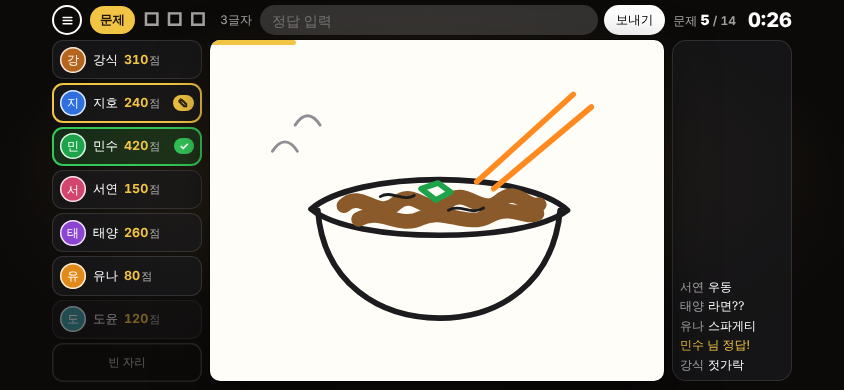
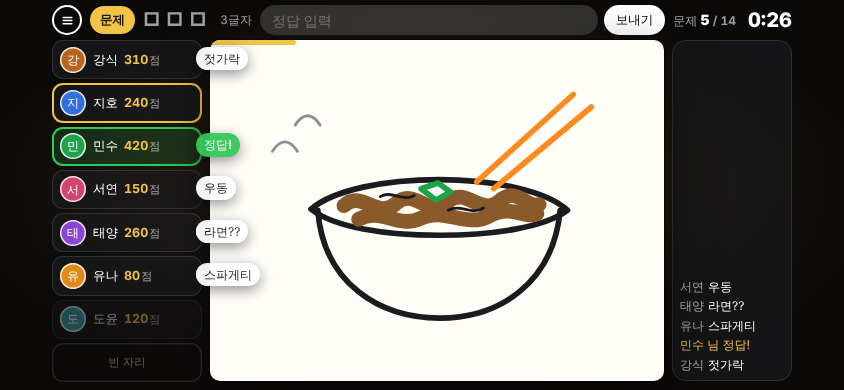
갱식마인드: 시안 수정 중간 저장
Claude-Session: https://claude.ai/code/session_01HLnaqZjB45q4jBceVSssci

diff --git a/design/draw/index.html b/design/draw/index.html
@@ -61,7 +61,7 @@ svg{display:block}
   padding:0 calc(var(--pad) + var(--sr)) var(--pad) calc(var(--pad) + var(--sl))}
 .dr-seats{display:flex;flex-direction:column;gap:10px;min-height:0;height:calc(var(--strip) + var(--ch) + var(--under) + 20px)}
 .dr-seats.l{grid-column:1}.dr-seats.r{grid-column:5}
-.dr-seat{flex:1;min-height:0;border-radius:18px;background:var(--panel);box-shadow:inset 0 0 0 1px var(--hair);padding:10px;display:flex;flex-direction:column;gap:6px;position:relative;overflow:hidden}
+.dr-seat{flex:1;min-height:0;border-radius:18px;background:var(--panel);box-shadow:inset 0 0 0 1px var(--hair);padding:10px;display:flex;flex-direction:column;gap:6px;position:relative;overflow:visible}
 .dr-seat.empty{background:none;box-shadow:inset 0 0 0 1.5px rgba(255,255,255,.1);align-items:center;justify-content:center;color:var(--ink3);font-size:13px}
 .dr-seat.turn{box-shadow:inset 0 0 0 2px var(--accent)}
 .dr-seat.hit{box-shadow:inset 0 0 0 2px var(--green);background:rgba(52,199,89,.16)}
@@ -74,9 +74,19 @@ svg{display:block}
 .dr-tag{align-self:flex-start;font-size:11px;font-weight:700;padding:2px 7px;border-radius:9px;background:var(--accent);color:var(--on-accent)}
 .dr-tag.host{background:var(--fill2);color:var(--ink)}
 .dr-tag.ok{background:var(--green);color:#fff}
-.dr-say{font-size:13px;line-height:1.3;padding:5px 9px;border-radius:11px 11px 11px 3px;background:#fff;color:#111;align-self:flex-start;max-width:100%;
-  display:-webkit-box;-webkit-line-clamp:2;-webkit-box-orient:vertical;overflow:hidden;overflow-wrap:anywhere}
+.dr-say{position:absolute;top:14px;z-index:4;width:max-content;max-width:170px;font-size:13.5px;line-height:1.3;padding:6px 10px;border-radius:13px;background:#fff;color:#111;opacity:.95;pointer-events:none;
+  box-shadow:0 4px 14px rgba(0,0,0,.45);display:-webkit-box;-webkit-line-clamp:2;-webkit-box-orient:vertical;overflow-wrap:anywhere;animation:dr-pop .28s cubic-bezier(.3,1.6,.5,1) both}
+.dr-say::before{content:'';position:absolute;top:9px;border:7px solid transparent}
+.dr-seats.l .dr-say{left:calc(100% - 6px);transform-origin:0 50%}
+.dr-seats.l .dr-say::before{left:-12px;border-right-color:#fff}
+.dr-seats.r .dr-say{right:calc(100% - 6px);transform-origin:100% 50%}
+.dr-seats.r .dr-say::before{right:-12px;border-left-color:#fff}
 .dr-say.ok{background:var(--green);color:#fff;font-weight:700}
+.dr-seats.l .dr-say.ok::before{border-right-color:var(--green)}.dr-seats.r .dr-say.ok::before{border-left-color:var(--green)}
+.mine .dr-say{max-width:104px;opacity:.88}
+@keyframes dr-pop{from{transform:scale(.4);opacity:0}}
+@media (prefers-reduced-motion:reduce){.dr-say{animation:none}}
+.mk-still .dr-say{animation:none}
 .dr-plus{position:absolute;right:10px;bottom:8px;font-weight:800;color:var(--green);font-size:20px}
 
 .dr-pal{grid-column:2;align-self:start;margin-top:calc(var(--strip) + 10px);display:grid;grid-template-columns:1fr 1fr;gap:8px;padding:8px;border-radius:18px;background:var(--panel);box-shadow:inset 0 0 0 1px var(--hair)}
@@ -92,6 +102,16 @@ svg{display:block}
 .dr-size{width:44px;height:44px;border-radius:50%;display:flex;align-items:center;justify-content:center;background:var(--fill)}
 .dr-size i{display:block;border-radius:50%;background:#fff}
 .dr-size.on{background:#fff}.dr-size.on i{background:#000}
+.dr-size svg{width:20px;height:20px}.dr-size.on svg{color:#000}
+.dr-szpop{flex:1;min-width:0;height:48px;display:flex;align-items:center;gap:10px;padding:0 10px;border-radius:24px;background:rgba(40,40,42,.95);box-shadow:inset 0 0 0 1px var(--hair)}
+.dr-szprev{width:40px;height:40px;border-radius:50%;background:var(--paper);display:flex;align-items:center;justify-content:center;flex:none}
+.dr-szprev i{display:block;border-radius:50%}
+.dr-sznum{font-size:17px;min-width:26px;text-align:center}
+.dr-szstep{width:36px;height:36px;border-radius:50%;background:var(--fill2);font-size:20px;font-weight:700;flex:none}
+.dr-sztrack{flex:1;height:6px;border-radius:3px;background:var(--fill2);position:relative;min-width:60px}
+.dr-sztrack i{position:absolute;left:0;top:0;bottom:0;border-radius:3px;background:var(--accent)}
+.dr-sztrack u{position:absolute;top:50%;width:28px;height:28px;margin:-14px 0 0 -14px;border-radius:50%;background:#fff;box-shadow:0 2px 6px rgba(0,0,0,.5)}
+.dr-szpop.dr-ph{display:none}
 
 .dr-board{grid-column:3;display:flex;flex-direction:column;gap:10px;width:var(--cw);min-width:0}
 .dr-strip{height:var(--strip);flex:none;display:flex;align-items:center;gap:12px;padding:0 8px 0 6px;border-radius:26px;background:var(--panel);box-shadow:inset 0 0 0 1px var(--hair)}
@@ -197,18 +217,31 @@ svg{display:block}
   .dr-tag{align-self:center;font-size:0;padding:1px 5px;flex:none}
   .dr-tag::before{content:'✎';font-size:11px}
   .dr-tag.ok::before{content:'✓'}
-  .dr-tag.host{display:none}
+  .dr-tag{display:none!important}
   .dr-seat:has(.dr-plus) .dr-tag{display:none}
   .dr-seat:has(.dr-plus) .dr-sc{font-size:0}
   .dr-plus{font-size:12.5px}
-  .dr-say{display:none}
+  .dr-say{top:50%;margin-top:-13px;max-width:124px;font-size:12px;padding:4px 8px;-webkit-line-clamp:1;white-space:nowrap;overflow:hidden;text-overflow:ellipsis;display:block}
+  .dr-say::before{top:6px;border-width:6px}
+  .dr-seats.r .dr-say{right:auto;left:calc(100% - 6px);transform-origin:0 50%}
+  .dr-seats.r .dr-say::before{right:auto;left:-11px;border-left-color:transparent;border-right-color:#fff}
+  .dr-seats.r .dr-say.ok::before{border-left-color:transparent;border-right-color:var(--green)}
+  .mine .dr-say{left:auto!important;right:5px!important;max-width:64px;opacity:.95}
+  .mine .dr-say::before{display:none}
   .dr-plus{position:static}
   .dr-board{grid-column:3;grid-row:1/3}
   .dr-pal{grid-column:2;grid-row:1/3;margin-top:0;gap:6px;padding:6px;border-radius:14px;align-self:center}
-  .dr-tools{grid-column:4;grid-row:1/3;margin-top:0;gap:4px;padding:4px;border-radius:14px;align-self:center}
-  .dr-tool{height:34px;width:38px;border-radius:10px;font-size:0;gap:0}
+  .dr-tools{grid-column:4;grid-row:1/3;margin-top:0;gap:4px 4px;padding:4px;border-radius:14px;align-self:center}
+  .mine{--pw:132px;--toolw:88px;
+    --ch:min(calc(100dvh - var(--bar) - var(--pad)),calc((100vw - var(--sl) - var(--sr) - var(--pad)*2 - var(--pw) - var(--palw) - var(--toolw) - var(--gap)*3)*.75));--cw:calc(var(--ch)*4/3)}
+  .dr-pc,.dr-tools hr{display:none}
+  .dr-tools{display:grid;grid-template-columns:38px 38px;grid-template-rows:repeat(5,36px);grid-auto-flow:column}
+  .dr-szpop.dr-ph{display:grid;grid-template-columns:36px 1fr 36px;gap:8px 6px;align-items:center;position:fixed;z-index:6;left:calc(var(--sl) + var(--pad));bottom:var(--pad);width:206px;height:auto;padding:10px;border-radius:16px;box-shadow:0 10px 30px rgba(0,0,0,.6),inset 0 0 0 1px var(--hair)}
+  .dr-szpop.dr-ph .dr-szprev{grid-column:1/3;justify-self:start}
+  .dr-szpop.dr-ph .dr-sznum{grid-column:3;grid-row:1}
+  .dr-tool{height:36px;width:38px;border-radius:10px;font-size:0;gap:0}
   .dr-tool svg{width:20px;height:20px}
-  .dr-tools .dr-size{width:38px;height:30px;border-radius:10px}
+  .dr-tools .dr-size{width:38px;height:36px;border-radius:10px}
   .dr-canvas{border-radius:10px}
   /* 맞히는 사람: 색·도구 자리가 없고, 오른쪽에 채팅 기록 */
   .guess .dr-stage{grid-template-columns:var(--pw) var(--cw) minmax(0,1fr)}
@@ -260,7 +293,8 @@ const GAME_NAME = '갱식마인드';
 document.title = GAME_NAME + ' — 정적 시안';
 const P = new URLSearchParams(location.search);
 const S = P.get('s') || 'draw';
-const SCREENS = [['lobby','a1 로비'],['room','a2 방 대기'],['pick','b1 단어 고르기'],['draw','b2 내가 그림'],['guess','c 맞히기'],['kb','c2 키보드(폰)'],['reveal','d 정답 공개'],['final','e 최종 순위']];
+const SCREENS = [['lobby','a1 로비'],['room','a2 방 대기'],['pick','b1 단어 고르기'],['draw','b2 내가 그림'],['size','b3 굵기 조정'],['guess','c 맞히기'],['kb','c2 키보드(폰)'],['reveal','d 정답 공개'],['final','e 최종 순위']];
+if (P.get('shot') === '1') document.documentElement.classList.add('mk-still');   // 스크린샷용: 움직임 끔
 if (P.get('shot') !== '1') document.getElementById('nav').innerHTML = SCREENS.map(([k, n]) => `<a href="?s=${k}" class="${k === S ? 'on' : ''}">${n}</a>`).join('');
 
 // 색 12개 (기획서 6-2와 같은 값·순서)
@@ -274,6 +308,8 @@ const I = {
   snd: '<svg viewBox="0 0 24 24" fill="none" stroke="currentColor" stroke-width="2.2" stroke-linecap="round" stroke-linejoin="round"><path d="M4 10v4h3l5 4V6L7 10H4z"/><path d="M16 9a4 4 0 010 6"/></svg>',
   pen: '<svg viewBox="0 0 24 24" fill="none" stroke="currentColor" stroke-width="2" stroke-linecap="round" stroke-linejoin="round"><path d="M4 20l1-5L16 4l4 4L9 19l-5 1z"/><path d="M14 6l4 4"/></svg>',
   era: '<svg viewBox="0 0 24 24" fill="none" stroke="currentColor" stroke-width="2" stroke-linecap="round" stroke-linejoin="round"><path d="M8 19l-4-4a2 2 0 010-3l8-8a2 2 0 013 0l5 5a2 2 0 010 3l-7 7H8z"/><path d="M9 9l7 7M12 19h8"/></svg>',
+  eraS: '<svg viewBox="0 0 24 24" fill="none" stroke="currentColor" stroke-width="2" stroke-linecap="round" stroke-linejoin="round"><path d="M3 14c3-6 5 4 8-1s4-7 7-2 2 5 3 3" stroke-dasharray="0"/><path d="M6 20L18 5" stroke-width="2.6"/></svg>',
+  adj: '<svg viewBox="0 0 24 24" fill="none" stroke="currentColor" stroke-width="2.2" stroke-linecap="round"><path d="M4 8h16M4 16h16"/><circle cx="9" cy="8" r="2.6" fill="currentColor"/><circle cx="15" cy="16" r="2.6" fill="currentColor"/></svg>',
   undo: '<svg viewBox="0 0 24 24" fill="none" stroke="currentColor" stroke-width="2.2" stroke-linecap="round" stroke-linejoin="round"><path d="M9 13L4 8l5-5"/><path d="M4 8h10a6 6 0 010 12h-4"/></svg>',
   redo: '<svg viewBox="0 0 24 24" fill="none" stroke="currentColor" stroke-width="2.2" stroke-linecap="round" stroke-linejoin="round"><path d="M15 13l5-5-5-5"/><path d="M20 8H10a6 6 0 000 12h4"/></svg>',
   trash: '<svg viewBox="0 0 24 24" fill="none" stroke="currentColor" stroke-width="2" stroke-linecap="round" stroke-linejoin="round"><path d="M4 7h16M9 7V4h6v3M6 7l1 13h10l1-13M10 11v6M14 11v6"/></svg>',
@@ -300,11 +336,17 @@ function seat(p, i, o) {
     <div class="dr-who"><span class="dr-av" style="background:${p.c}">${p.n[0]}</span><div><div class="dr-nm">${p.n}</div><div class="dr-sc"><b>${p.s + (gain || 0)}</b>점</div></div></div>
     ${o.turn === i ? '<span class="dr-tag">그리는 중</span>' : hit && !gain ? '<span class="dr-tag ok">맞힘</span>' : p.host ? '<span class="dr-tag host">방장</span>' : ''}
     ${p.off ? '<span class="dr-sc">연결 끊김</span>' : ''}
-    ${say && !hit ? `<div class="dr-say">${say}</div>` : ''}
+    ${say && !hit ? `<div class="dr-say">${say}</div>` : hit && !gain ? '<div class="dr-say ok">정답!</div>' : ''}
     ${gain ? `<span class="dr-plus">+${gain}</span>` : ''}
   </div>`;
 }
 function game(o) {
+  // 굵기 빠른 버튼 3개 + 굵기 조정 버튼
+  const sizes = (cls) => [5, 11, 22].map((d, i) => `<button class="dr-size ${cls} ${i === 1 && !o.pop ? 'on' : ''}"><i style="width:${d}px;height:${d}px"></i></button>`).join('')
+    + `<button class="dr-size dr-adj ${cls} ${o.pop ? 'on' : ''}" aria-label="굵기 조정">${I.adj}</button>`;
+  // 굵기 조정 팝업(열린 상태): 미리보기 동그라미 + 숫자 + 막대 + 1씩 줄이기/늘리기
+  const pop = (cls) => `<div class="dr-szpop ${cls}"><span class="dr-szprev"><i style="width:14px;height:14px;background:${COLORS[2]}"></i></span><b class="dr-sznum">14</b>
+    <button class="dr-szstep">−</button><span class="dr-sztrack"><i style="width:32%"></i><u style="left:32%"></u></span><button class="dr-szstep">+</button></div>`;
   const me = o.me;                       // 내가 그리는 사람인가
   const wordHtml = me || o.rev ? `<span class="dr-word">짜장면</span>` : `<span class="dr-word blank">□□□</span><span class="dr-len">3글자</span>`;
   const q = `<span class="dr-q">문제</span>${o.pick ? `<span class="dr-len">${me ? '단어를 골라 주세요' : '지호 님이 고르는 중'}</span>` : wordHtml}`;
@@ -335,20 +377,22 @@ function game(o) {
          ${o.rev ? `<div class="dr-rev"><small>정답 · 5명 중 3명이 맞혔어요</small><b>짜장면</b><span>민수 <em>+112</em> · 태양 <em>+51</em> · 강식 <em>+46</em> · 그린 사람 지호 <em>+60</em></span><small>3초 뒤 다음 문제 · 다음 차례 민수</small></div>` : ''}
        </div>
        <div class="dr-under">${tools ? `
-          <div class="dr-sizes" role="radiogroup" aria-label="굵기">
-            <button class="dr-size"><i style="width:5px;height:5px"></i></button><button class="dr-size on"><i style="width:11px;height:11px"></i></button><button class="dr-size"><i style="width:24px;height:24px"></i></button></div>
-          <span class="dr-hint">글자·숫자는 쓰지 않기 · 모두 맞히면 바로 끝나요</span>
+          <div class="dr-sizes" role="radiogroup" aria-label="굵기">${sizes('')}</div>
+          ${o.pop ? pop('') : ''}
+          ${o.pop ? '' : '<span class="dr-hint">글자·숫자는 쓰지 않기 · 모두 맞히면 바로 끝나요</span>'}
           <button class="dr-btn danger">포기</button>`
         : o.rev || o.pick ? `<span class="dr-hint">${o.pick ? (me ? '' : '곧 그림이 시작됩니다') : ''}</span>`
         : `<input class="dr-input" placeholder="정답을 입력하세요 (Enter)"><button class="dr-btn primary">보내기</button>`}</div>
      </div>
      ${tools ? `<div class="dr-tools">
-        <button class="dr-tool on">${I.pen}펜</button><button class="dr-tool">${I.era}지우개</button><hr>
-        ${[5, 11, 22].map((d, i) => `<button class="dr-size dr-ph ${i === 1 ? 'on' : ''}"><i style="width:${d}px;height:${d}px"></i></button>`).join('')}<hr class="dr-ph">
-        <button class="dr-tool">${I.undo}되돌리기</button><button class="dr-tool dim">${I.redo}다시 하기</button><hr><button class="dr-tool">${I.trash}전체 지우기</button></div>` : ''}
+        <button class="dr-tool on">${I.pen}펜</button><button class="dr-tool">${I.era}정밀 지우개</button><button class="dr-tool">${I.eraS}획 지우개</button><hr>
+        <button class="dr-tool">${I.undo}되돌리기</button><button class="dr-tool dim">${I.redo}다시 하기</button><hr>
+        <button class="dr-tool dr-pc">${I.trash}전체 지우기</button>
+        ${sizes('dr-ph')}<button class="dr-tool dr-ph">${I.trash}</button></div>` : ''}
      <div class="dr-seats r">${PL.slice(4).map((p, i) => seat(p, i + 4, o)).join('')}</div>
      <div class="dr-log"><p><b>서연</b>우동</p><p><b>태양</b>라면??</p><p><b>유나</b>스파게티</p><p class="sys">민수 님 정답!</p>${o.rev ? '<p class="sys">태양 님 정답!</p><p class="sys">강식 님 정답!</p>' : '<p><b>강식</b>젓가락</p>'}</div>
    </div>
+   ${o.pop ? pop('dr-ph') : ''}
    ${o.kb ? `<div class="mk-kb">${'<i></i>'.repeat(40)}</div>` : ''}
   </div>`;
 }
@@ -357,6 +401,7 @@ const VIEWS = {
   pick: () => game({ me: 1, pick: 1, turn: 1, time: '0:07', bar: 100 }),
   draw: () => game({ me: 1, turn: 1, time: '0:26', bar: 19, says, hits: [2] }),
   guess: () => game({ turn: 1, time: '0:26', bar: 19, says, hits: [2] }),
+  size: () => game({ me: 1, turn: 1, time: '0:26', bar: 19, says, hits: [2], pop: 1 }),
   kb: () => game({ turn: 1, time: '0:26', bar: 19, says, kb: 1, hits: [2] }),
   reveal: () => game({ turn: 1, rev: 1, time: '0:00', bar: 0, says, gain: { 2: 112, 4: 51, 0: 46, 1: 60 } }),
   lobby: () => `<div class="dr-center">

diff --git a/docs/draw/GDD.md b/docs/draw/GDD.md
@@ -145,17 +145,18 @@
 
 ### 6-2. 결정 (✅ 사용자: "직관적으로 딱 필요한 기능만", ☑ 세부)
 
-**남긴 것 5가지 + 색 + 굵기.** 처음 보는 사람이 설명 없이 쓸 수 있는 것만.
+**남긴 것 6가지 + 색 + 굵기.** 처음 보는 사람이 설명 없이 쓸 수 있는 것만.
 
 | 항목 | 결정 | 한 줄 근거 |
 |---|---|---|
 | 펜 | 기본 선택 | 그리기의 전부 |
-| 지우개 | 종이 색으로 덧칠하는 펜(굵기는 펜의 약 2.5배) | 펜과 같은 방식이라 받는 쪽 그림도 똑같이 나온다 |
+| 정밀 지우개 | ✅ 문지른 부분만 지운다. **종이 색으로 덧칠하는 펜**으로 만든다(굵기 조절 가능) | 종이가 한 장(겹 없음)이라 "진짜 지우기"와 눈으로 똑같고, 펜과 같은 길로 보내져 모든 화면이 똑같이 나오며 되돌리기도 그대로 된다 |
+| 획 지우개 | ✅ 닿은 선 한 줄을 통째로 지운다. 굵기 없음(닿는 범위 반지름 8px). **펜으로 그은 선만** 지운다(정밀 지우개 자국은 대상이 아님) | 잘못 그은 선 하나를 한 번에 없앤다. 선 단위로 저장하니 서버·동기화가 간단하다 |
 | 되돌리기 | 마지막 한 일(선 하나 또는 전체 지우기)을 취소. **그 문제 안에서는 횟수 제한 없이** 처음까지 | 손가락 그림은 실수가 잦다. 지우개보다 빠르다 |
 | 다시 하기(앞으로 가기) | ✅ 되돌린 것을 다시 살린다. 되돌리기 바로 옆. 살릴 것이 없으면 흐리게 | 사용자 결정("되돌리기랑 앞으로가기는 무조건") |
 | 전체 지우기 | 확인 창 없이 바로. 되돌리기로 복구 | 확인 창은 느리다. 되돌릴 수 있으니 안전하다 |
 | 색 | **12색**, 2줄×6칸, 누르면 바로 바뀜. 고른 색에 흰 테두리 | 한눈에 다 보이고 한 번에 눌린다. 휴대폰에서도 칸이 28px 이상 |
-| 굵기 | **3단계** 동그라미(가늘게 4 / 보통 10 / 굵게 24, 그림판 800×600 기준 px) | 5단계는 차이를 고르느라 느리다. 굵게 24면 색칠도 된다 |
+| 굵기 | **빠른 버튼 3개**(가늘게 4 / 보통 10 / 굵게 24, 그림판 800×600 기준 px) + ✅ **굵기 조정 버튼**(6-2-1) | 대부분은 3개로 끝나고, 세밀하게 고르고 싶을 때만 한 번 더 누른다 |
 | 포기 | 도구 줄과 떨어진 곳에 빨간 글자 버튼 | 실수로 누르지 않게 |
 
 색 목록(이 순서로 놓는다. 원작 5색이 모두 들어 있다):
@@ -183,14 +184,28 @@
 | 확대·이동, 겹(레이어) | 2분짜리 그림에 과하다 |
 | 글자 넣기 | 규칙상 금지 |
 
+지우개 두 가지의 배치(☑): **버튼 두 개를 나란히** 둔다(길게 누르기·두 번 누르기로 바꾸는 방식은 쓰지 않는다 — 숨은 조작은 처음 보는 사람이 못 찾는다).
+아이콘: 정밀 지우개 = 지우개 그림, 획 지우개 = 구불구불한 선에 사선을 그은 그림. PC에는 아래에 글자("정밀 지우개", "획 지우개")도 붙는다.
+- 획 지우개로 한 번 문질러(누르고 떼기 전까지) 지운 선들은 **되돌리기 한 번에 함께** 돌아온다.
+- 획 지우개로 지운 선 밑에 정밀 지우개 자국이 있었다면 자국은 그대로 남는다(종이 색이라 보이지 않는다).
+
+#### 6-2-1. 굵기 조정 (✅ 사용자: "조정하는 버튼 따로 하나 … 세밀하게")
+
+- 빠른 버튼 3개 옆의 **굵기 조정 버튼**(막대 두 줄 그림)을 누르면 작은 창이 뜬다: **미리보기 동그라미**(지금 색·실제 굵기) + **숫자** + **막대** + **−/+ 버튼**(1씩).
+- 범위 **2~40px, 1px 단위**(800×600 기준). 막대 손잡이 28px, −/+ 버튼 36px(손가락용).
+- **펜과 정밀 지우개는 굵기를 따로 기억한다**(☑ 펜 처음 10, 정밀 지우개 처음 24). 이유: 지우개는 보통 더 굵게 쓰는데, 지우개를 쓰고 돌아왔을 때 펜 굵기가 바뀌어 있으면 안 된다.
+- 빠른 버튼 값(4·10·24)과 같으면 그 버튼이 켜진 것으로 보이고, 다른 값이면 조정 버튼이 켜진 것으로 보인다.
+- 창 위치 — **그림판을 가리지 않는다**: PC·iPad는 그림판 아래 줄 안에서 옆으로 펼쳐진다. 휴대폰 가로는 왼쪽 아래(플레이어 목록 위)에 뜬다.
+- 바깥을 누르거나 그리기 시작하면 닫힌다. PC 단축키 `[` `]`로 1씩 줄이고 늘린다(창을 열지 않아도 됨).
+
 되돌리기·다시 하기 규칙:
-- 그 문제의 "한 일 목록"(선, 전체 지우기)과 "지금 위치"를 서버가 기억한다. 되돌리기는 위치를 한 칸 뒤로, 다시 하기는 한 칸 앞으로.
+- 그 문제의 "한 일 목록"(선, 정밀 지우개 자국, 획 지우개로 지운 묶음, 전체 지우기)과 "지금 위치"를 서버가 기억한다. 되돌리기는 위치를 한 칸 뒤로, 다시 하기는 한 칸 앞으로.
 - **새 선을 긋거나 전체 지우기를 하면 다시 하기 목록은 비워진다**(되돌린 것은 사라진다).
 - 전체 지우기도 한 일 하나다. 되돌리면 그림이 통째로 돌아오고, 다시 하면 또 지워진다.
 - 횟수 제한은 따로 없다(한 문제의 선은 최대 600개). 문제가 바뀌면 목록을 비운다.
 - 다른 사람 화면에도 같은 순서로 전달한다(`drUndo`, `drRedo`). 받는 쪽도 같은 목록과 위치를 갖고 다시 그린다.
 
-단축키(PC, 그리는 사람만. 그리는 사람은 채팅을 못 쓰니 글자 키와 겹치지 않는다): `B` 펜 · `E` 지우개 · `1` `2` `3` 굵기 · `Ctrl/⌘+Z` 되돌리기 · `Ctrl/⌘+Shift+Z` 또는 `Ctrl+Y` 다시 하기. 전체 지우기와 포기는 단축키 없음(실수 방지).
+단축키(PC, 그리는 사람만. 그리는 사람은 채팅을 못 쓰니 글자 키와 겹치지 않는다): `B` 펜 · `E` 정밀 지우개 · `Shift+E` 획 지우개 · `1` `2` `3` 빠른 굵기 · `[` `]` 굵기 1씩 · `Ctrl/⌘+Z` 되돌리기 · `Ctrl/⌘+Shift+Z` 또는 `Ctrl+Y` 다시 하기. 전체 지우기와 포기는 단축키 없음(실수 방지).
 
 ### 6-3. 선 부드러움 (✅ 사용자: "부드럽게 그림이 그려지게")
 
@@ -220,19 +235,26 @@
 | a2 방 대기 | `?s=room` | 왼쪽 방 코드·참가자·채팅, 오른쪽 방 설정(출제 순서 3가지, 라운드 수, 그리는 시간, 주제 켜고 끄기)·시작 | 같음(두 판 나란히) |
 | b1 단어 고르기 | `?s=pick` | 그림판 위에 단어 카드 3장 + 남은 초 | 같음 |
 | b2 내가 그림 | `?s=draw` | 좌우 플레이어 4칸씩 / 그림판 왼쪽 색 / 오른쪽 도구 / 아래 굵기·포기 | 왼쪽 플레이어 8줄 / 색 / 그림판 / 도구 |
+| b3 굵기 조정 창 | `?s=size` | 그림판 아래 줄에서 옆으로 펼쳐짐 | 왼쪽 아래(플레이어 목록 위)에 뜸 |
 | c 맞히기 | `?s=guess` | 그림판 아래 정답 입력 | 정답 입력은 **맨 윗줄**, 오른쪽에 채팅 기록 |
 | c2 키보드 올라옴 | `?s=kb` | — | 그림판이 보이는 높이에 맞춰 줄어든다 |
 | d 정답 공개 | `?s=reveal` | 그림판 아래쪽에 정답 카드(맞힌 사람마다 얻은 점수), 각자 칸에 +점수 | 같음 |
 | e 최종 순위 | `?s=final` | 1~3등 단상 + 목록 + 한 판 더 | 같음(가로로 나눔) |
 
 - **PC·iPad**: 원작 배치 그대로 좌우에 플레이어 칸 4개씩(사진·이름·점수·말풍선). 맞힌 사람 칸은 초록 테두리와 "맞힘". 가운데 위 "문제" 띠(그리는 사람만 단어, 나머지는 칸), 오른쪽에 "맞힌 사람 1/5"와 남은 시간, 그림판 위쪽에 줄어드는 금색 막대.
-  색은 그림판 왼쪽, 도구(펜·지우개·되돌리기·다시 하기·전체 지우기)는 오른쪽(참고 이미지 방식), 굵기와 포기는 아래.
+  색은 그림판 왼쪽, 도구(펜·정밀 지우개·획 지우개·되돌리기·다시 하기·전체 지우기)는 오른쪽(참고 이미지 방식), 굵기 3개·굵기 조정·포기는 아래.
 - **휴대폰 가로(844×390)**: 8칸을 그대로 두면 그림판이 작아져서 **왼쪽 한 줄 목록(8줄, 폭 150px)** 으로 바꿨다. 윗줄 하나에 문제·남은 시간·포기를 모았다.
-  그리는 사람: `[플레이어][색 2×6][그림판 440×330][도구·굵기]`. 맞히는 사람: 색·도구 자리가 없어지고 `[플레이어][그림판][채팅 기록]`.
+  그리는 사람: `[플레이어 132px][색 2×6][그림판 약 430×322][도구 2줄: 펜·지우개 둘·되돌리기·다시 하기 / 굵기 3개·굵기 조정·전체 지우기]`. 맞히는 사람: 색·도구 자리가 없어지고 `[플레이어][그림판][채팅 기록]`.
   좌우 44px은 노치 자리로 비웠다. 그림판 높이는 화면 높이의 약 85%.
-- 휴대폰에서 그리는 사람은 채팅 기록을 보지 않는다(자리가 없다. 그리기에 집중). ⬜ 필요하면 그림판 아래 한 줄로 최근 글만 띄운다.
 - 휴대폰 키보드: 가로 화면에서 키보드가 절반을 가린다. 입력 칸을 맨 위에 두고, 키보드가 올라오면 보이는 높이에 맞춰 그림판을 줄인다(`visualViewport`). **미확인(실기기 확인 필요)**.
-- 못 맞힌 사람의 채팅은 플레이어 칸의 말풍선으로 뜬다(PC). 정답 글은 보이지 않고 칸이 초록 "맞힘"으로 바뀐다(3-5).
+- **말풍선**(✅ 사용자: "옆으로 튀어나가도 재밌을 것 같다"): 채팅은 플레이어 칸 **옆으로 꼬리 달린 말풍선**이 튀어나온다. 왼쪽 칸은 오른쪽(그림판 쪽)으로, 오른쪽 칸은 왼쪽으로.
+  - 표시 시간 **3.5초** 뒤 흐려지며 사라진다. 같은 사람이 새로 말하면 바로 **교체**한다.
+  - 최대 폭 170px, **두 줄**까지 줄바꿈, 넘으면 `…`. 휴대폰은 한 줄·최대 124px.
+  - 그림을 가리지 않게: 말풍선은 칸과 그림판 사이의 빈 자리에 뜨고, 길면 **그림판 가장자리에 조금 겹친다**(왼쪽·오른쪽 끝은 그림이 드문 자리). 약간 비치게(95%) 하고 **누를 수 없게** 한다(밑의 색·도구가 그대로 눌린다).
+    그리는 사람 화면에서는 색·도구 칸을 덜 가리도록 폭을 104px로 줄이고 더 비치게(88%) 한다.
+  - 정답을 맞힌 말: 글자는 보이지 않고 **초록 말풍선 "정답!"** 만 뜬다. 맞힌 사람끼리 하는 말: 맞힌 사람·그리는 사람에게는 초록 테두리 말풍선으로 글이 보이고, 못 맞힌 사람에게는 **아무것도 뜨지 않는다**(글이 전송되지 않는다).
+  - 휴대폰 가로: 맞히는 사람은 왼쪽 목록의 줄 옆으로 말풍선이 튀어나와 그림판 왼쪽 끝에 겹친다(오른쪽 채팅 기록도 그대로). 그리는 사람은 그림판·색을 가리지 않게 **그 줄 안**(점수 자리)에 잠깐 뜬다.
+  - 움직임: 꼬리 쪽에서 톡 커지며 나타난다(0.28초). `prefers-reduced-motion`이면 움직임 없이 나타난다.
 - 상단 줄은 라이어게임의 `.lgbar`와 같은 자리·방식(방 코드, 메뉴, 소리, 나가기).
 
 ## 8. 규칙 체크리스트 (13항목)
@@ -315,9 +337,10 @@
 | `chat` | `text` | 맞히는 사람 | 정답 입력을 겸한다(1~40자). 그리는 사람은 거절. 정답이면 채팅으로 내보내지 않는다. 맞힌 사람의 글은 맞힌 사람·그리는 사람에게만 |
 | `dr` `settings` | `order?:'seq'\|'hit'\|'rand'`, `rounds?:1\|2\|3\|5`, `time?:60\|90\|140`, `len?:bool`, `topics?:[이름]` | 방장, 방 대기 | 바꿀 것만 |
 | `dr` `pick` | `i:0..2` | 그리는 사람, 단어 고르기 | |
-| `dr` `st` | `c:0..11`, `w:0..2`, `e:0\|1`, `p:[x,y, dx,dy, ...]` | 그리는 사람, 그리기 | 새 선 시작. `e:1`은 지우개. 첫 점은 좌표, 나머지는 앞 점과의 차이(정수) |
+| `dr` `st` | `c:0..11`, `w:2..40`, `e:0\|1`, `p:[x,y, dx,dy, ...]` | 그리는 사람, 그리기 | 새 선 시작. `w`는 굵기(px), `e:1`은 정밀 지우개. 첫 점은 좌표, 나머지는 앞 점과의 차이(정수) |
 | `dr` `pt` | `p:[dx,dy,...]`, `f?:1` | 〃 | 지금 선에 점 추가(60ms마다). `f:1`이면 선 끝 |
 | `dr` `cx` | | 〃 | 지금 긋던 선 취소(손바닥) |
+| `dr` `rm` | `ids:[선 번호]`, `g?:1` | 〃 | 획 지우개: 그 선들을 지운다. `g:1`이면 바로 앞 `rm`과 같은 묶음(한 번 문지른 것). 서버는 번호가 있고 펜 선인지 검사 |
 | `dr` `undo` | | 〃 | 되돌리기(한 칸 뒤로) |
 | `dr` `redo` | | 〃 | 다시 하기(한 칸 앞으로). 살릴 것이 없으면 무시 |
 | `dr` `clear` | | 〃 | 전체 지우기 |
@@ -348,8 +371,8 @@
   ranking: null | [{ id, rank, score, correct }] }             // final 단계
 ```
 
-- `event.e`: `{k:'drSt', c,w,e,p}` · `{k:'drPt', p,f}` · `{k:'drCx'}` · `{k:'drUndo'}` · `{k:'drRedo'}` · `{k:'drClear'}`(그리는 사람 것을 나머지에게 전달) ·
-  `{k:'drSync', ops:[{c,w,e,p} | {clear:1}], at:n, open:bool}`(들어오거나 다시 붙은 사람에게 한 일 목록 전부와 지금 위치, 한 번) ·
+- `event.e`: `{k:'drSt', c,w,e,p}` · `{k:'drPt', p,f}` · `{k:'drCx'}` · `{k:'drRm', ids, g}` · `{k:'drUndo'}` · `{k:'drRedo'}` · `{k:'drClear'}`(그리는 사람 것을 나머지에게 전달) ·
+  `{k:'drSync', ops:[{c,w,e,p} | {rm:[ids]} | {clear:1}], at:n, open:bool}`(들어오거나 다시 붙은 사람에게 한 일 목록 전부와 지금 위치, 한 번) ·
   `{k:'drHit', id, order}`("○○ 님 정답!" 알림. 점수는 정답 공개 때) · `chat`에 `sec:1`(정답자끼리 글 표시) · `faces`·`chat`·`chatLog`는 기존과 같음.
 - 그림만은 예외로 `event`가 진짜 데이터다(상태에 그림을 넣으면 선 하나마다 방 상태 전체를 다시 보내야 한다). 놓쳤을 때는 재접속하면 `drSync`로 맞춘다.
 
@@ -395,3 +418,4 @@
 
 - 2026-11-13 초안. 사용자: 캐치마인드 규칙과 같게, 배치는 원작 화면 참고, 그림판은 사용자 참고 이미지(왼쪽 색·오른쪽 도구) + 조사로 "직관적으로 딱 필요한 기능만, 부드럽게", 라이어처럼 숨김 스위치.
 - 2026-11-13 사용자 결정: 이름 갱식마인드. 출제 순서 3가지(순서대로·맞힌 사람·랜덤)와 라운드 수를 방장이 따로 설정. 여러 명이 맞힐 때까지 계속, 빠를수록 높은 점수. 단어 3개 중 고르기 유지. 채우기는 빼고 시작. 되돌리기와 다시 하기는 반드시 넣는다.
+- 2026-11-13 사용자 결정(추가): 지우개를 획 지우개·정밀 지우개 둘로. 굵기 조정 버튼 추가(2~40px). 말풍선은 플레이어 칸 옆으로 튀어나오게.
